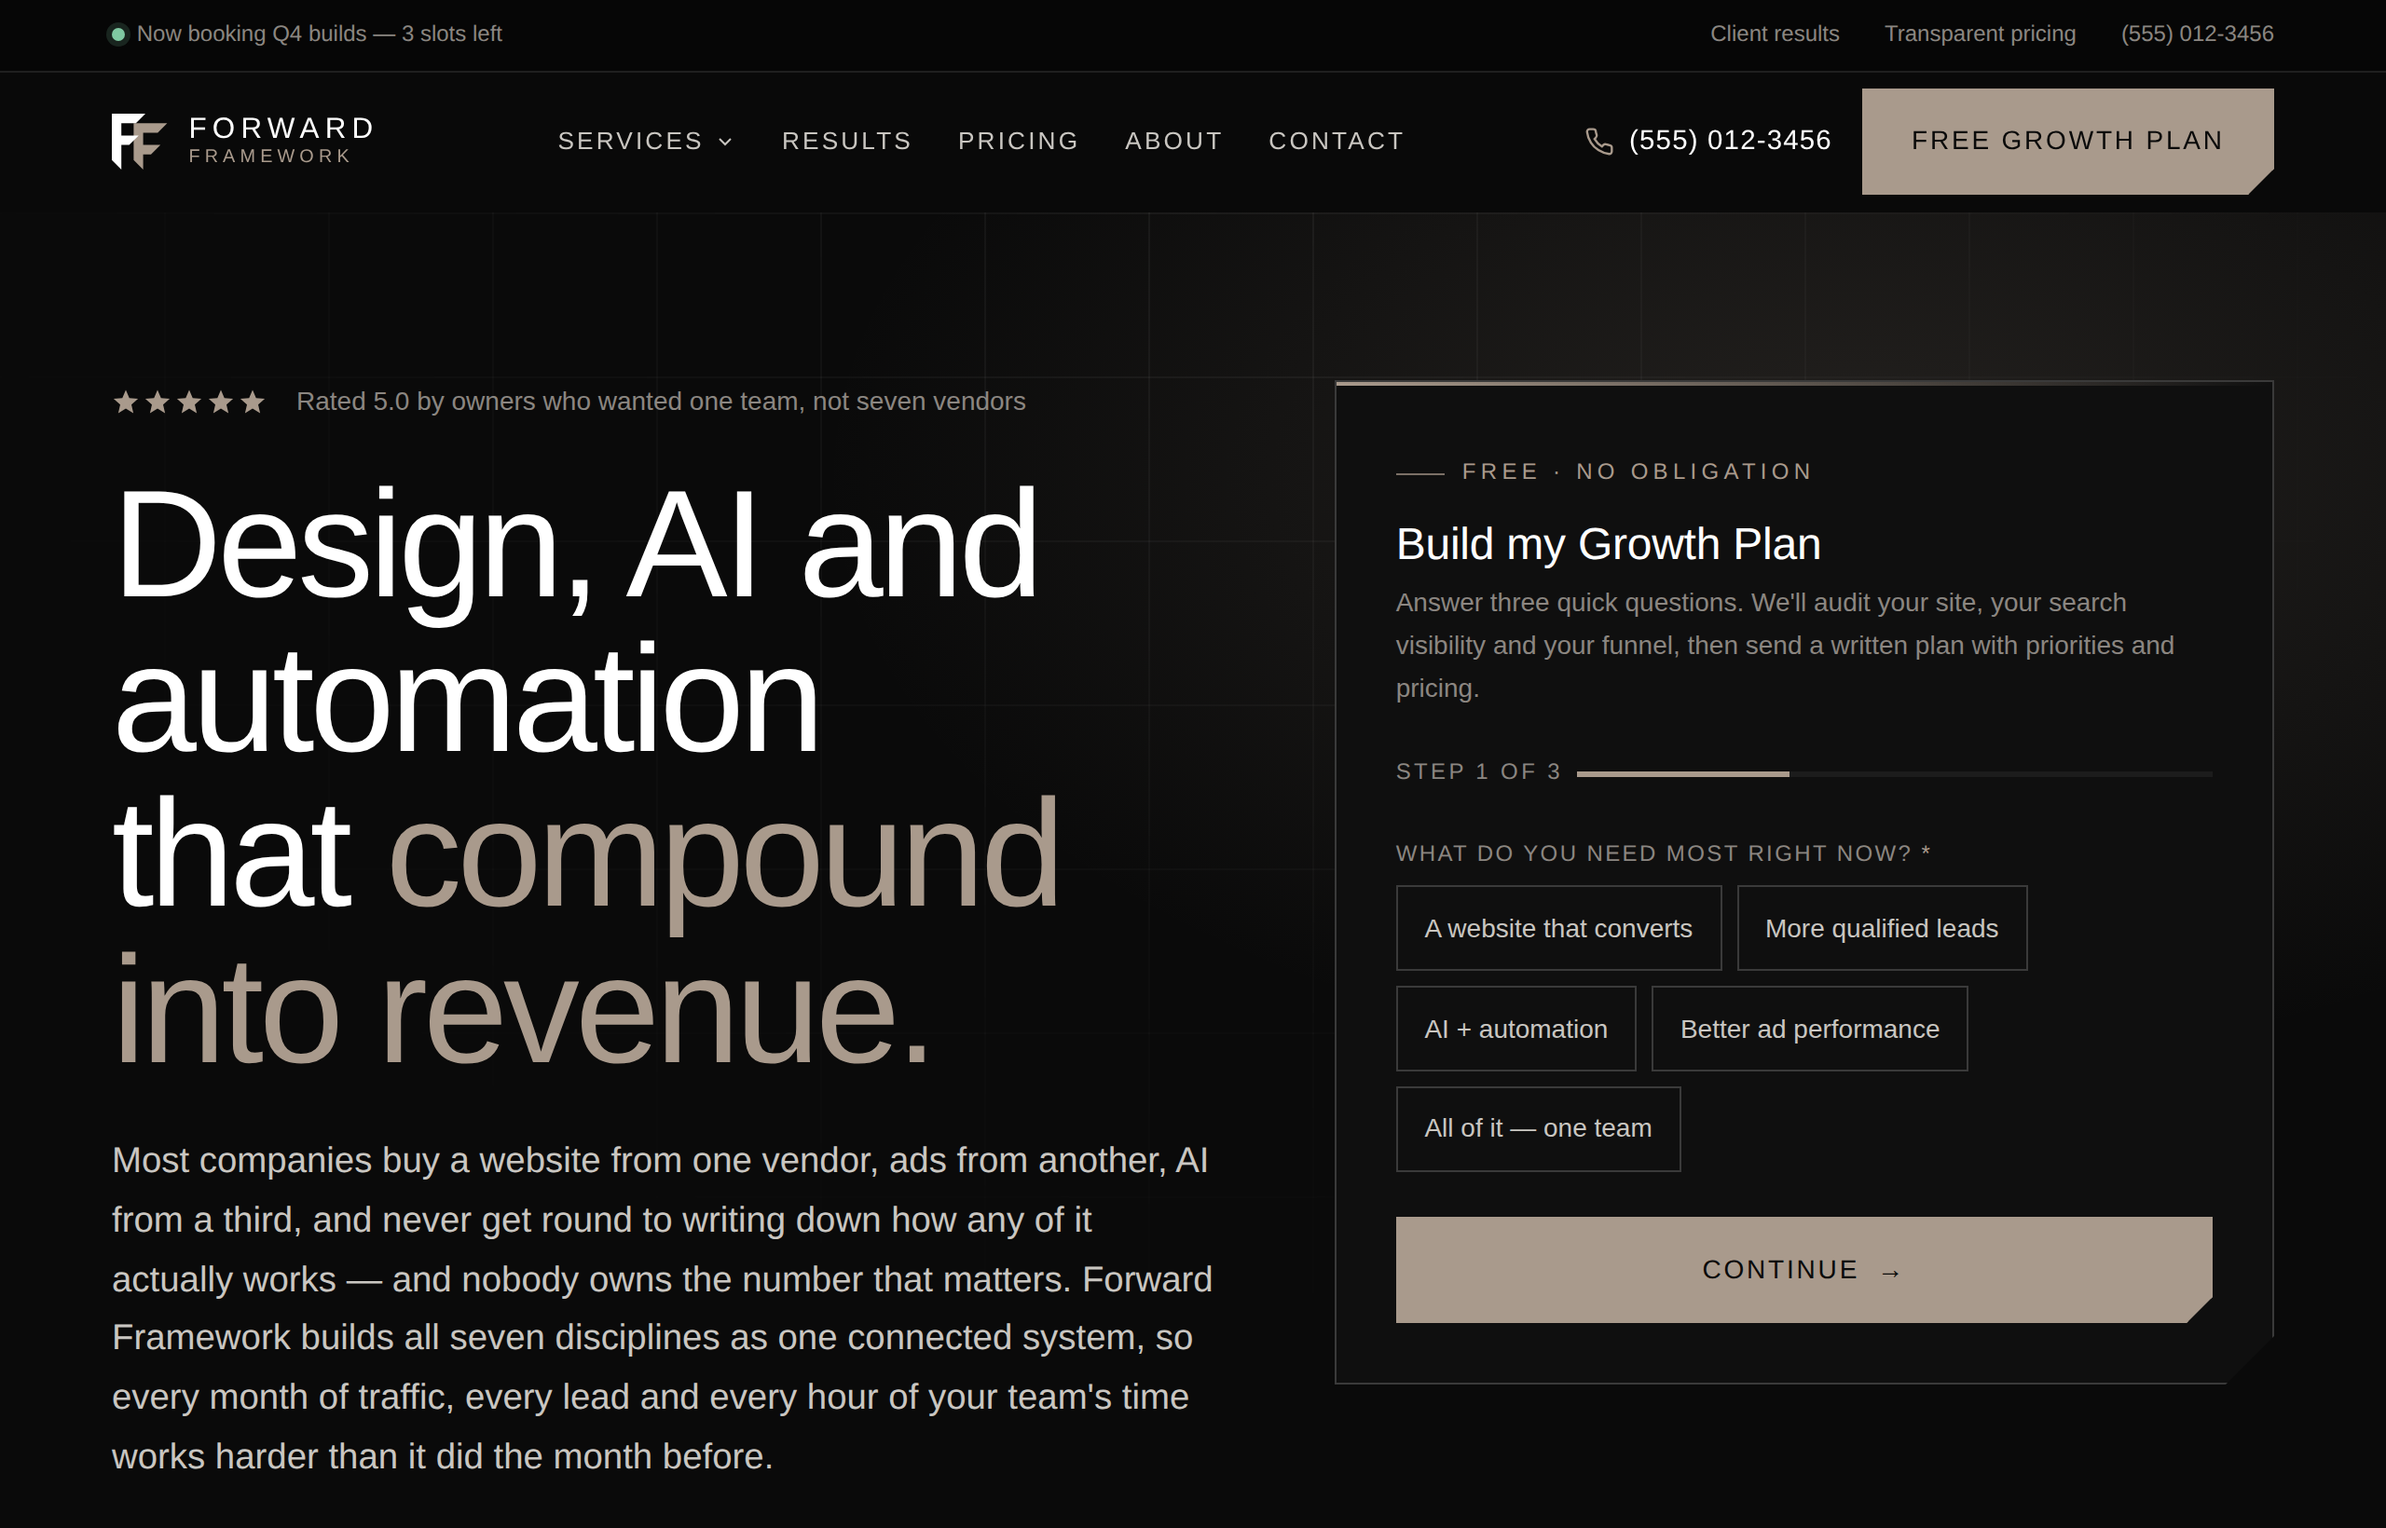
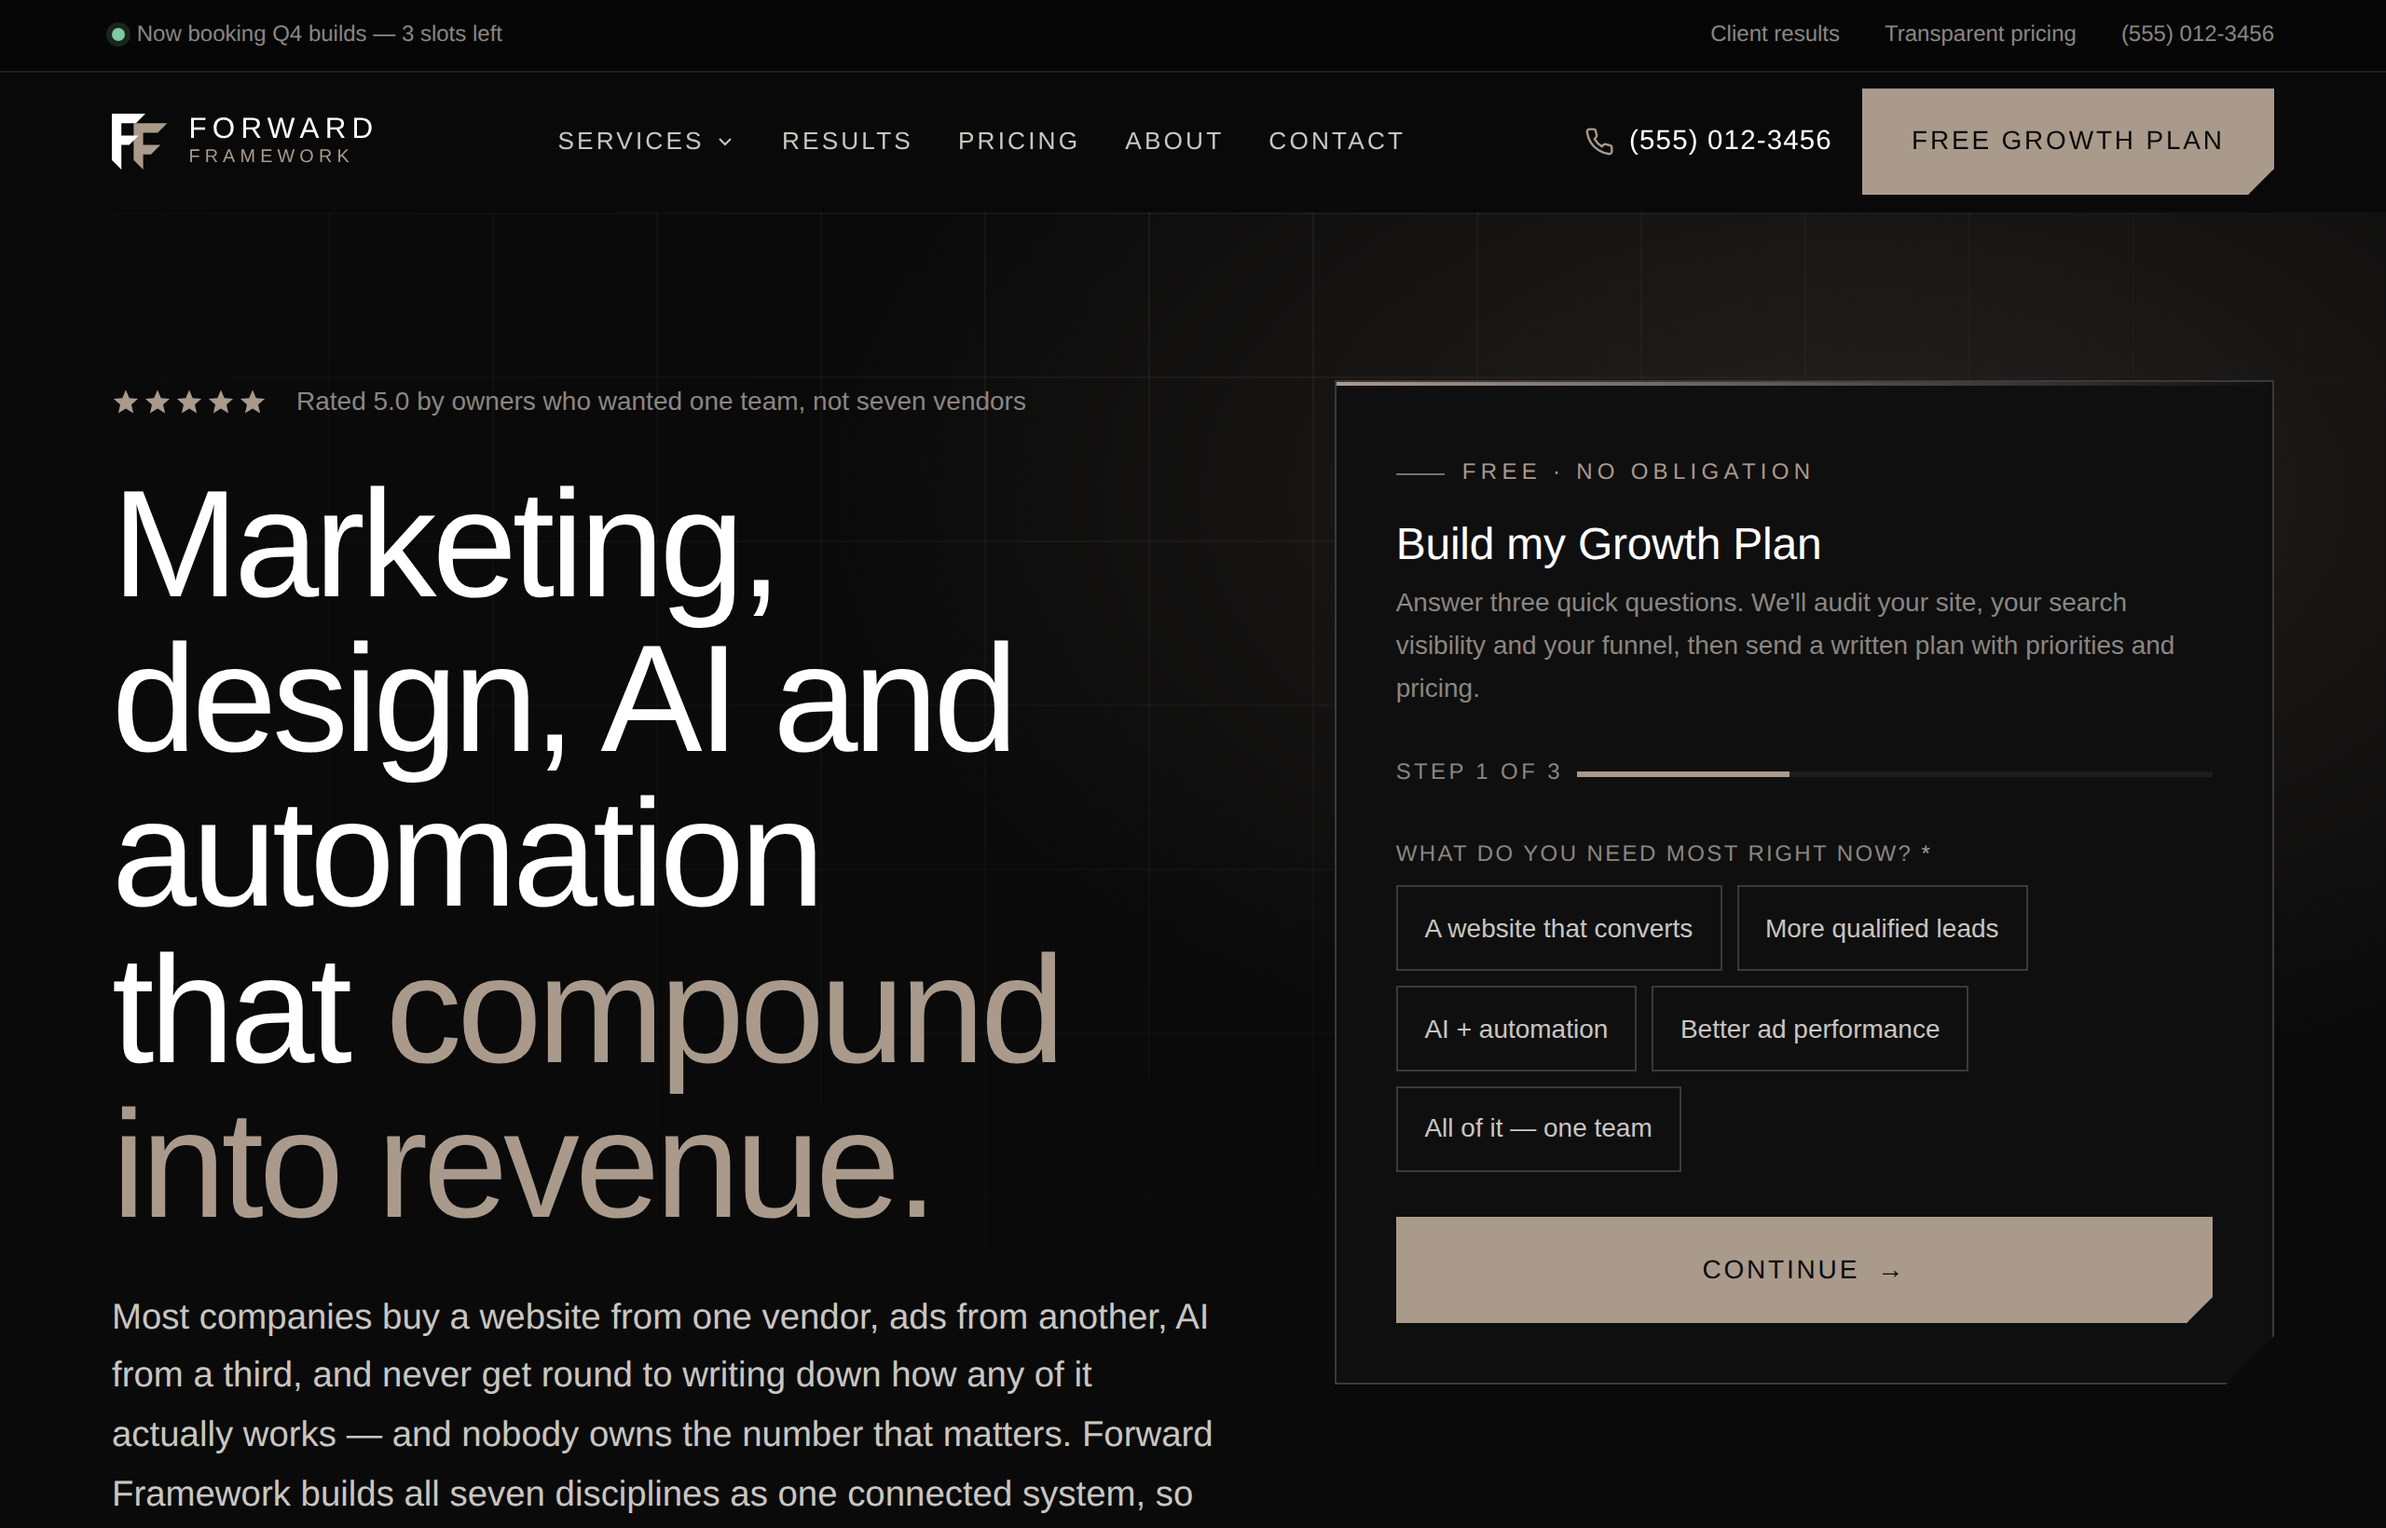
Lead the homepage headline with Marketing
"Design, AI and automation that compound into revenue." becomes "Marketing,
design, AI and automation that compound into revenue." Design drops to
lowercase now that Marketing opens the sentence, and the plural verb still
agrees with the list.

The Organization slogan in the JSON-LD carried the same string and is updated
to match — the visible headline and the structured data should never disagree.

README screenshots regenerated so the repo page shows the current hero.

Checked at 1440 / 768 / 390 / 320px: no overflow at any width. The desktop
headline now runs to five lines rather than four, which pushes the left-hand
CTA down; the hero form and its Continue button stay above the fold, so the
primary conversion path is unaffected.

Changed region(s): [[0.0312, 0.622, 0.5, 0.9951], [0.0312, 0.311, 0.4688, 0.622]]

diff --git a/index.html b/index.html
@@ -63,7 +63,7 @@
       },
       "image": { "@id": "https://forwardframework.com/#logo" },
       "description": "Forward Framework is a United States digital agency that builds websites, AI systems, automations and marketing campaigns as one connected growth engine.",
-      "slogan": "Design, AI and automation that compound into revenue.",
+      "slogan": "Marketing, design, AI and automation that compound into revenue.",
       "email": "hello@forwardframework.com",
       "telephone": "+1-555-012-3456",
       "areaServed": { "@type": "Country", "name": "United States" },
@@ -324,7 +324,7 @@
         <span class="small">Rated 5.0 by owners who wanted one team, not seven vendors</span>
       </div>
 
-      <h1 class="balance">Design, AI and automation that <em>compound into revenue.</em></h1>
+      <h1 class="balance">Marketing, design, AI and automation that <em>compound into revenue.</em></h1>
 
       <p class="hero-sub">Most companies buy a website from one vendor, ads from another, AI from a third, and never get round to writing down how any of it actually works — and nobody owns the number that matters. Forward Framework builds all seven disciplines as one connected system, so every month of traffic, every lead and every hour of your team's time works harder than it did the month before.</p>
 
